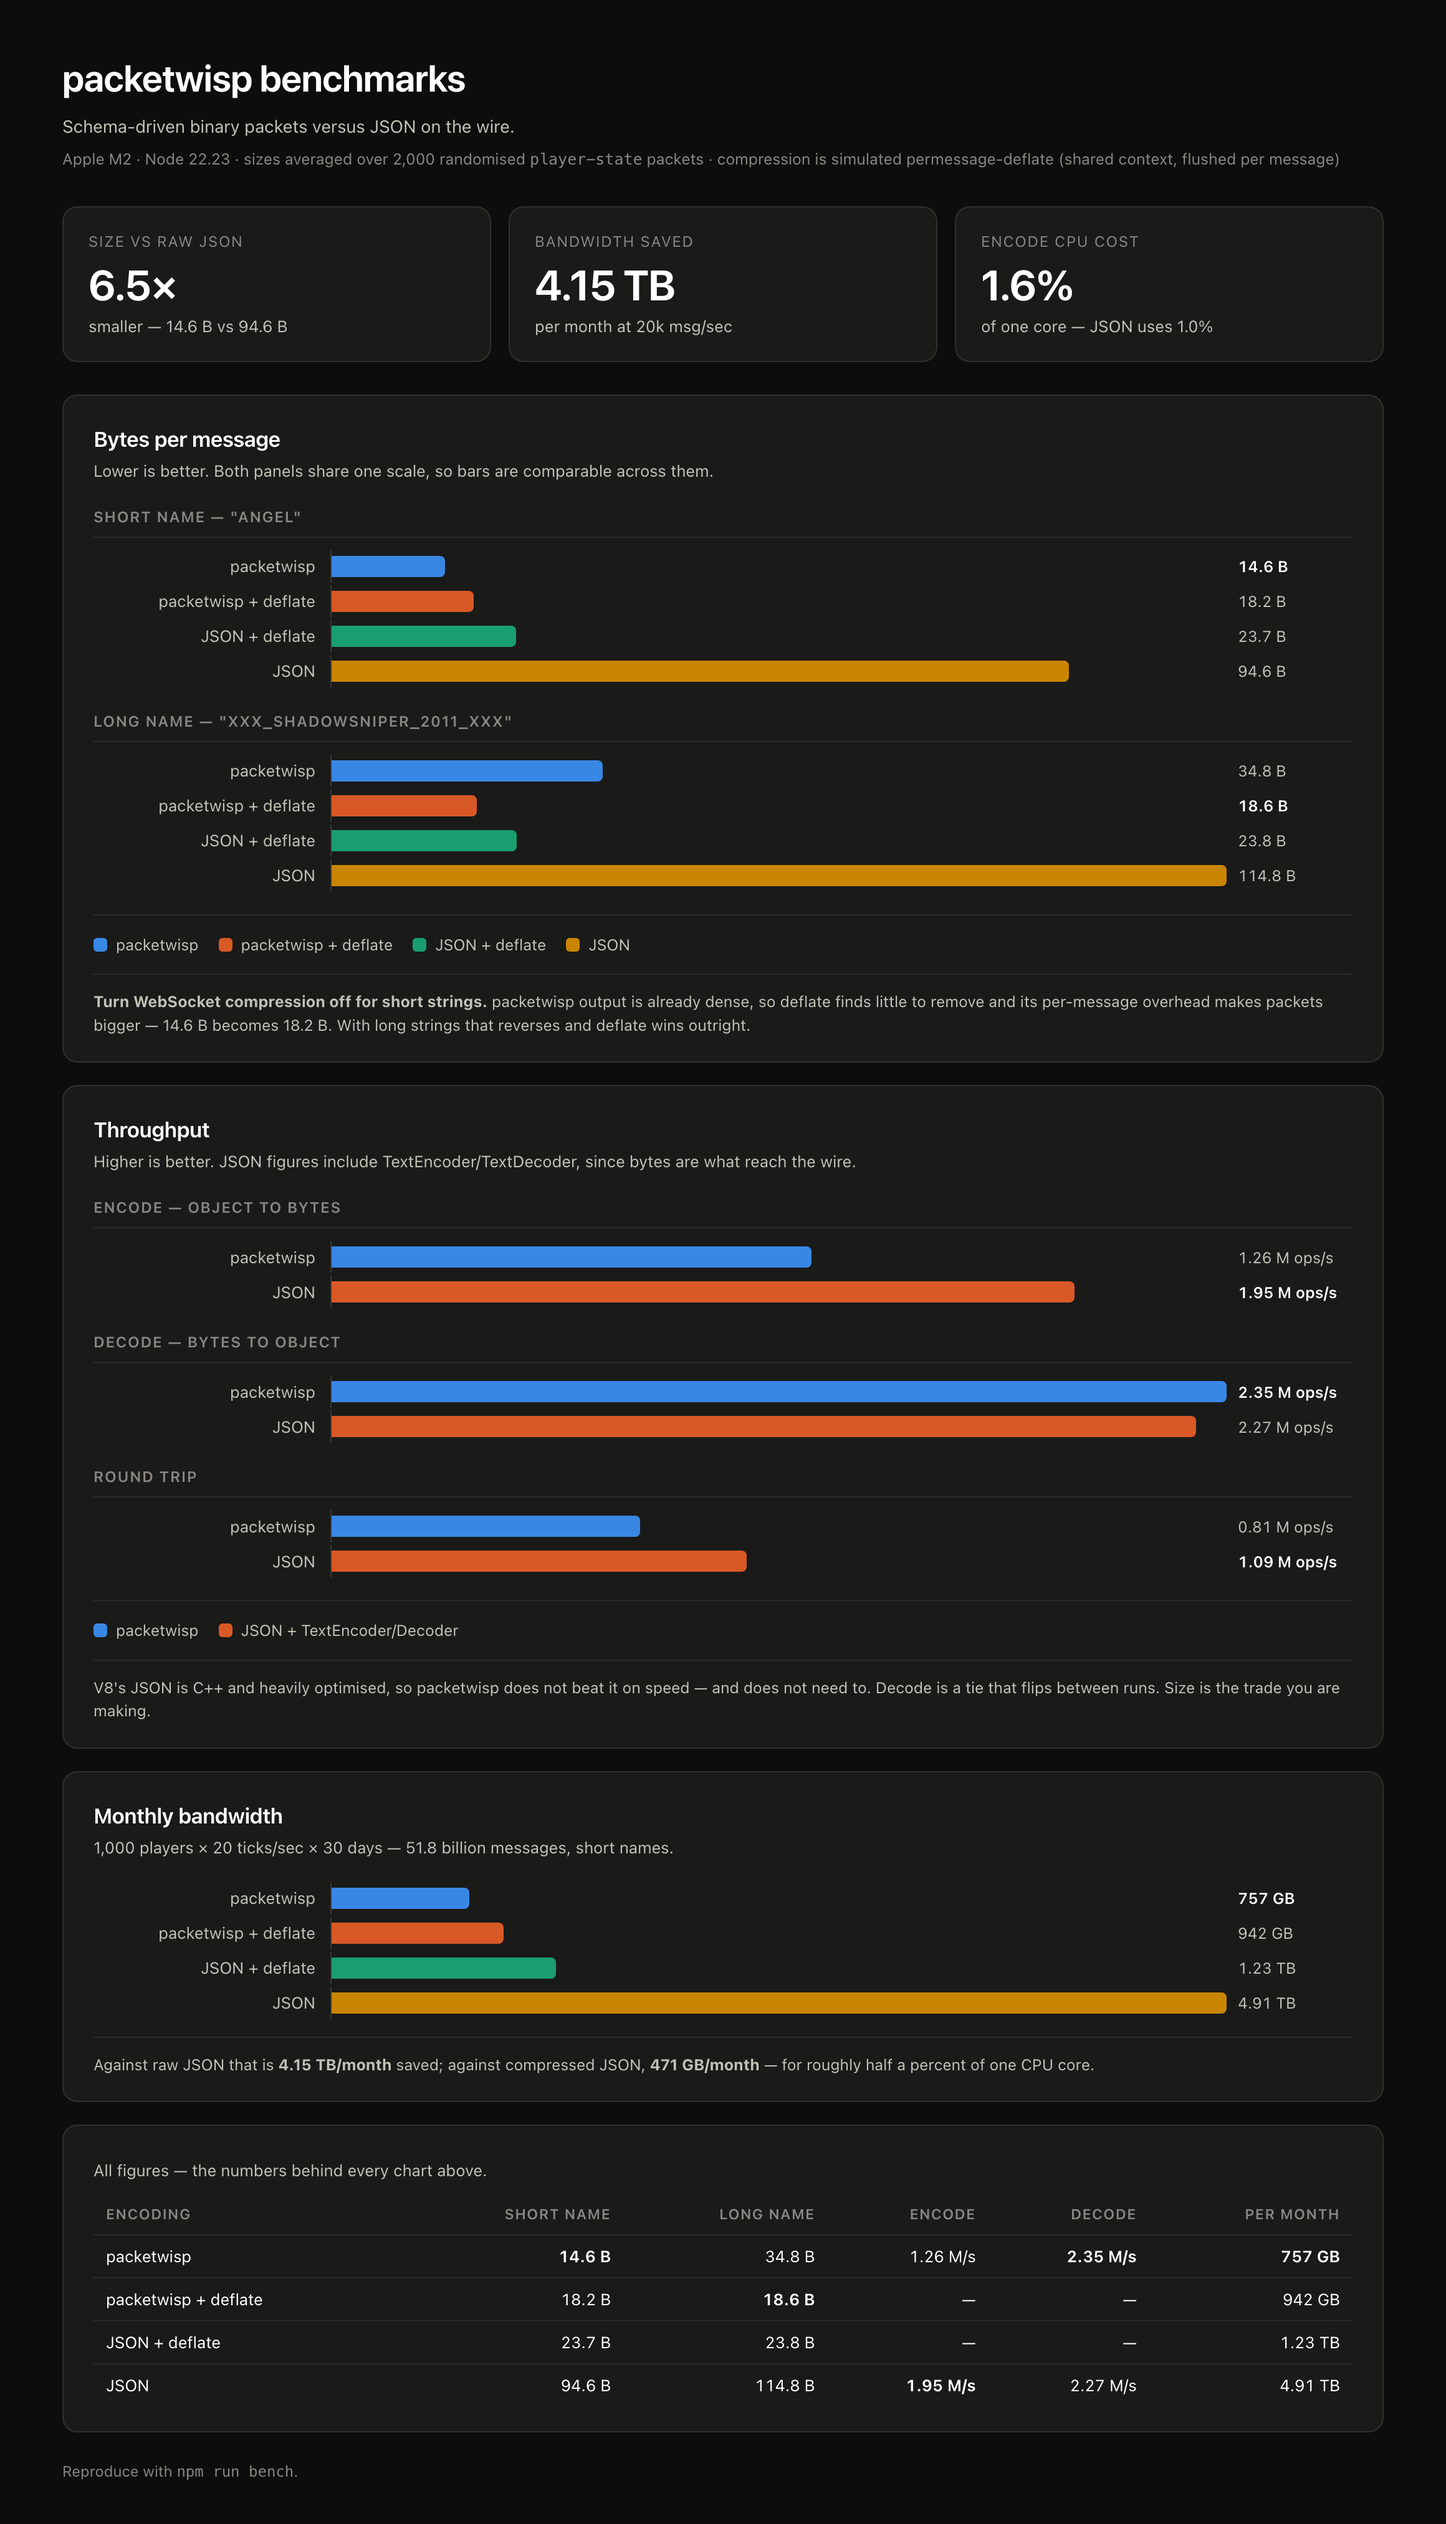
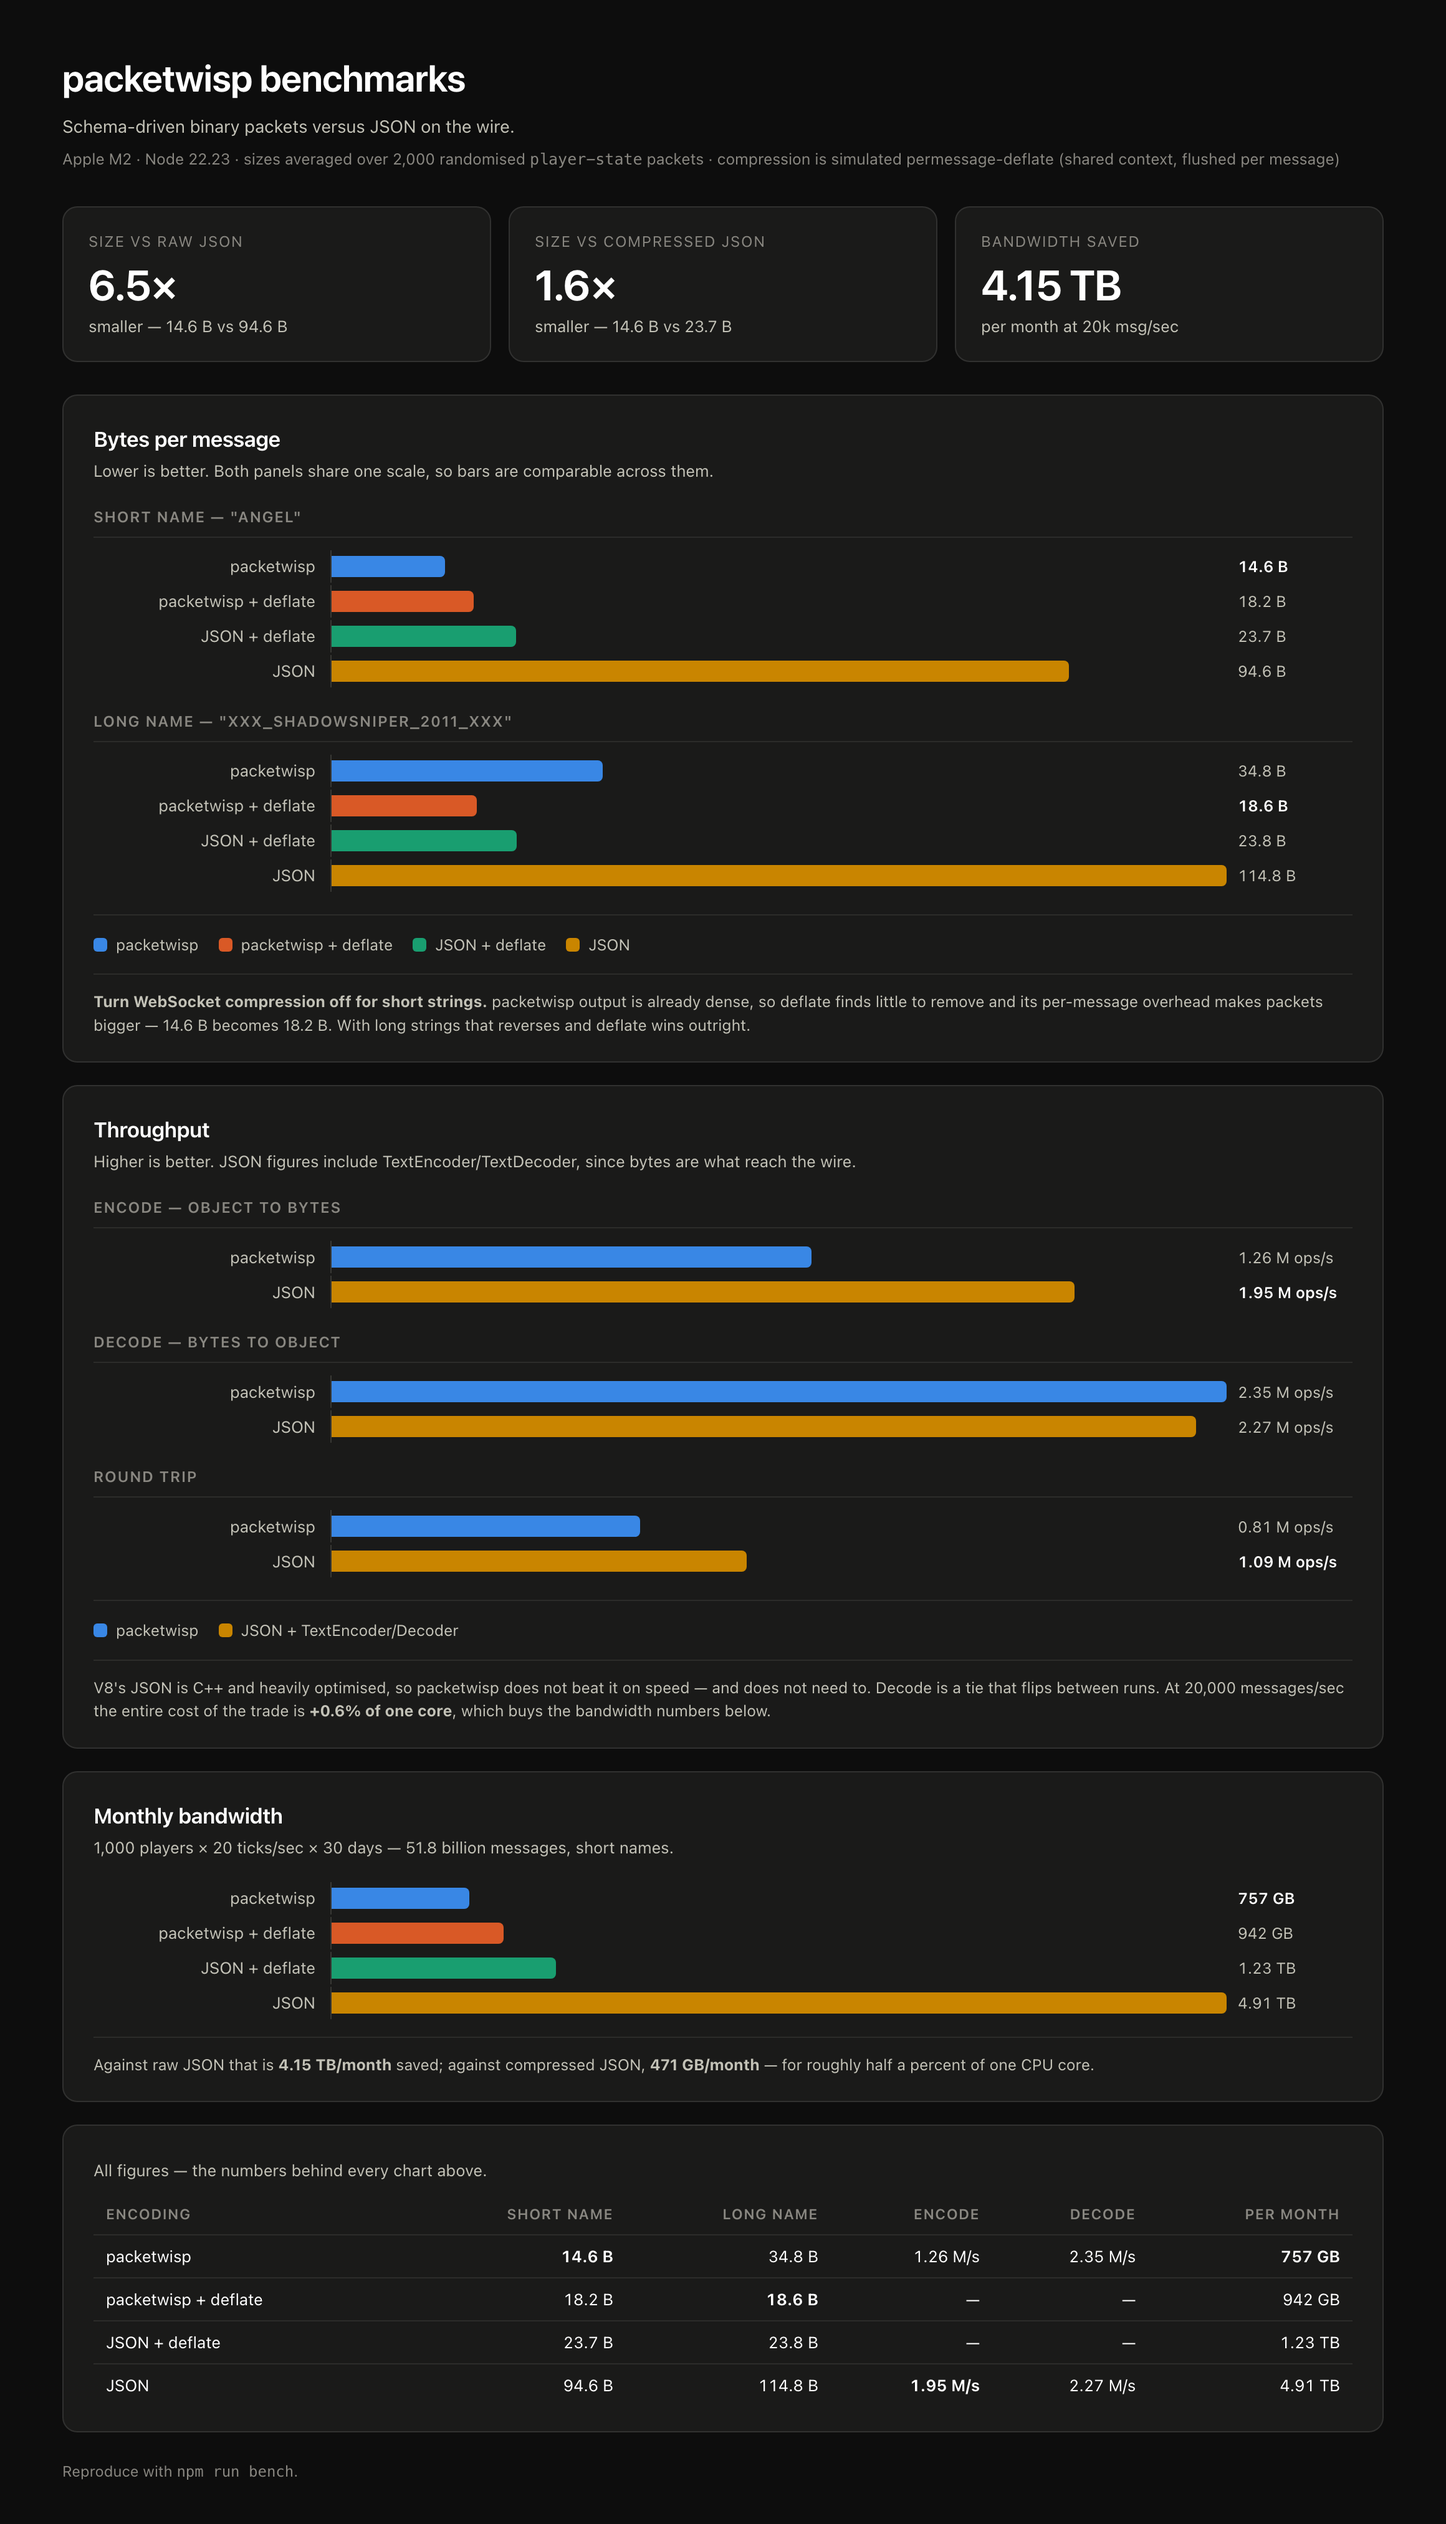
Update benchmark images

diff --git a/docs/benchmarks.html b/docs/benchmarks.html
@@ -135,14 +135,14 @@
       <div class="n">smaller — 14.6 B vs 94.6 B</div>
     </div>
     <div class="tile">
+      <div class="k">Size vs compressed JSON</div>
+      <div class="v">1.6&times;</div>
+      <div class="n">smaller — 14.6 B vs 23.7 B</div>
+    </div>
+    <div class="tile">
       <div class="k">Bandwidth saved</div>
       <div class="v">4.15 TB</div>
       <div class="n">per month at 20k msg/sec</div>
-    </div>
-    <div class="tile">
-      <div class="k">Encode CPU cost</div>
-      <div class="v">1.6%</div>
-      <div class="n">of one core — JSON uses 1.0%</div>
     </div>
   </div>
 
@@ -182,24 +182,24 @@
     <div class="facet">
       <div class="ft">Encode — object to bytes</div>
       <div class="row"><div class="rl">packetwisp</div><div class="track"><div class="bar" style="width:53.6%;background:var(--series-1)"></div><span class="val">1.26 M ops/s</span></div></div>
-      <div class="row"><div class="rl">JSON</div><div class="track"><div class="bar" style="width:83.0%;background:var(--series-2)"></div><span class="val"><b>1.95 M ops/s</b></span></div></div>
+      <div class="row"><div class="rl">JSON</div><div class="track"><div class="bar" style="width:83.0%;background:var(--series-4)"></div><span class="val"><b>1.95 M ops/s</b></span></div></div>
     </div>
     <div class="facet">
       <div class="ft">Decode — bytes to object</div>
-      <div class="row"><div class="rl">packetwisp</div><div class="track"><div class="bar" style="width:100%;background:var(--series-1)"></div><span class="val"><b>2.35 M ops/s</b></span></div></div>
-      <div class="row"><div class="rl">JSON</div><div class="track"><div class="bar" style="width:96.6%;background:var(--series-2)"></div><span class="val">2.27 M ops/s</span></div></div>
+      <div class="row"><div class="rl">packetwisp</div><div class="track"><div class="bar" style="width:100%;background:var(--series-1)"></div><span class="val">2.35 M ops/s</span></div></div>
+      <div class="row"><div class="rl">JSON</div><div class="track"><div class="bar" style="width:96.6%;background:var(--series-4)"></div><span class="val">2.27 M ops/s</span></div></div>
     </div>
     <div class="facet">
       <div class="ft">Round trip</div>
       <div class="row"><div class="rl">packetwisp</div><div class="track"><div class="bar" style="width:34.5%;background:var(--series-1)"></div><span class="val">0.81 M ops/s</span></div></div>
-      <div class="row"><div class="rl">JSON</div><div class="track"><div class="bar" style="width:46.4%;background:var(--series-2)"></div><span class="val"><b>1.09 M ops/s</b></span></div></div>
+      <div class="row"><div class="rl">JSON</div><div class="track"><div class="bar" style="width:46.4%;background:var(--series-4)"></div><span class="val"><b>1.09 M ops/s</b></span></div></div>
     </div>
 
     <div class="legend">
       <span class="lg"><span class="sw" style="background:var(--series-1)"></span>packetwisp</span>
-      <span class="lg"><span class="sw" style="background:var(--series-2)"></span>JSON + TextEncoder/Decoder</span>
+      <span class="lg"><span class="sw" style="background:var(--series-4)"></span>JSON + TextEncoder/Decoder</span>
     </div>
-    <p class="note">V8's JSON is C++ and heavily optimised, so packetwisp does not beat it on speed — and does not need to. Decode is a tie that flips between runs. Size is the trade you are making.</p>
+    <p class="note">V8's JSON is C++ and heavily optimised, so packetwisp does not beat it on speed — and does not need to. Decode is a tie that flips between runs. At 20,000 messages/sec the entire cost of the trade is <b>+0.6% of one core</b>, which buys the bandwidth numbers below.</p>
   </div>
 
   <div class="card">
@@ -221,7 +221,7 @@
         <tr><th>Encoding</th><th>Short name</th><th>Long name</th><th>Encode</th><th>Decode</th><th>Per month</th></tr>
       </thead>
       <tbody>
-        <tr><td>packetwisp</td><td class="best">14.6 B</td><td>34.8 B</td><td>1.26 M/s</td><td class="best">2.35 M/s</td><td class="best">757 GB</td></tr>
+        <tr><td>packetwisp</td><td class="best">14.6 B</td><td>34.8 B</td><td>1.26 M/s</td><td>2.35 M/s</td><td class="best">757 GB</td></tr>
         <tr><td>packetwisp + deflate</td><td>18.2 B</td><td class="best">18.6 B</td><td>—</td><td>—</td><td>942 GB</td></tr>
         <tr><td>JSON + deflate</td><td>23.7 B</td><td>23.8 B</td><td>—</td><td>—</td><td>1.23 TB</td></tr>
         <tr><td>JSON</td><td>94.6 B</td><td>114.8 B</td><td class="best">1.95 M/s</td><td>2.27 M/s</td><td>4.91 TB</td></tr>
